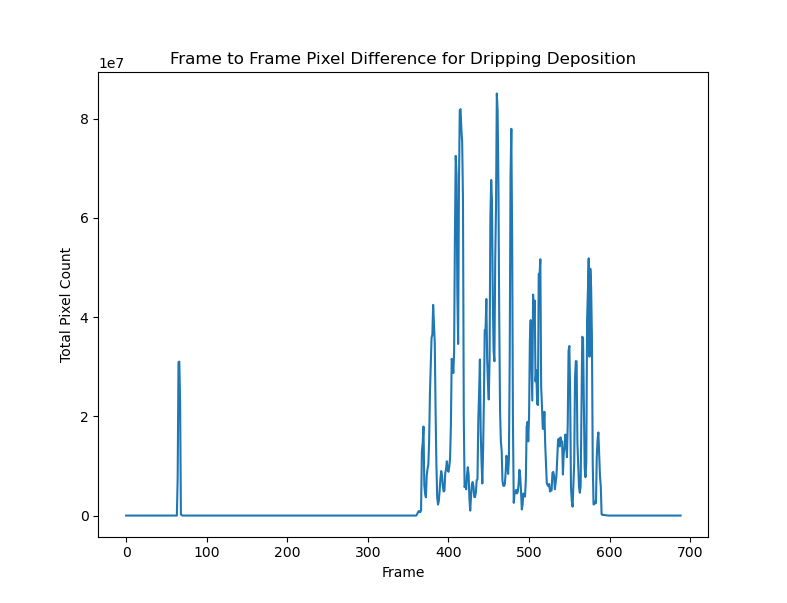
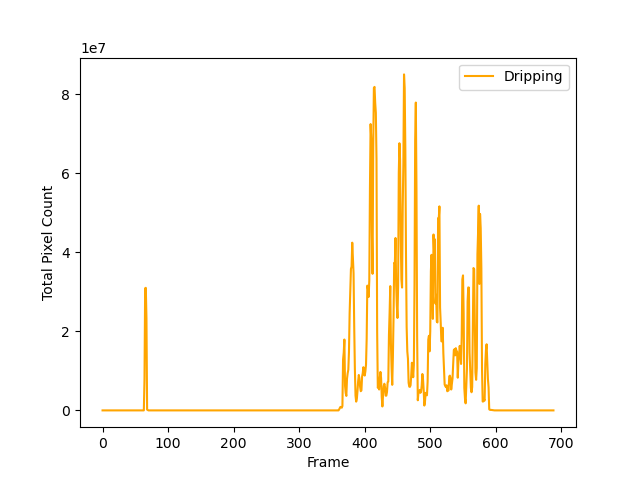
edited figures

diff --git a/Wiggleometer.py b/Wiggleometer.py
@@ -507,7 +507,7 @@ if __name__ == '__main__':
     roi = [795,444,305,588]
     threshold = 100
     #videos = np.arange(0,31)
-    videos = [5]
+    videos = [3]
 
     #for i,file_num  in enumerate(videos[1100]):
     for i,file_num in enumerate(videos):
@@ -614,10 +614,11 @@ if __name__ == '__main__':
         binary_change = np.asarray(binary_change)
         true_binary_change = np.asarray(true_binary_change)
         # plt.title('binary change')
-        plt.title('Frame to Frame Pixel Difference for Oscillating Deposition')
+        #plt.title('Frame to Frame Pixel Difference for Oscillating Deposition')
         plt.xlabel('Frame')
         plt.ylabel('Total Pixel Count')
-        plt.plot(binary_change)
+        plt.plot(binary_change,label = 'Stable')
+        plt.legend()
         # # plt.plot(true_binary_change)
         plt.show()
 
